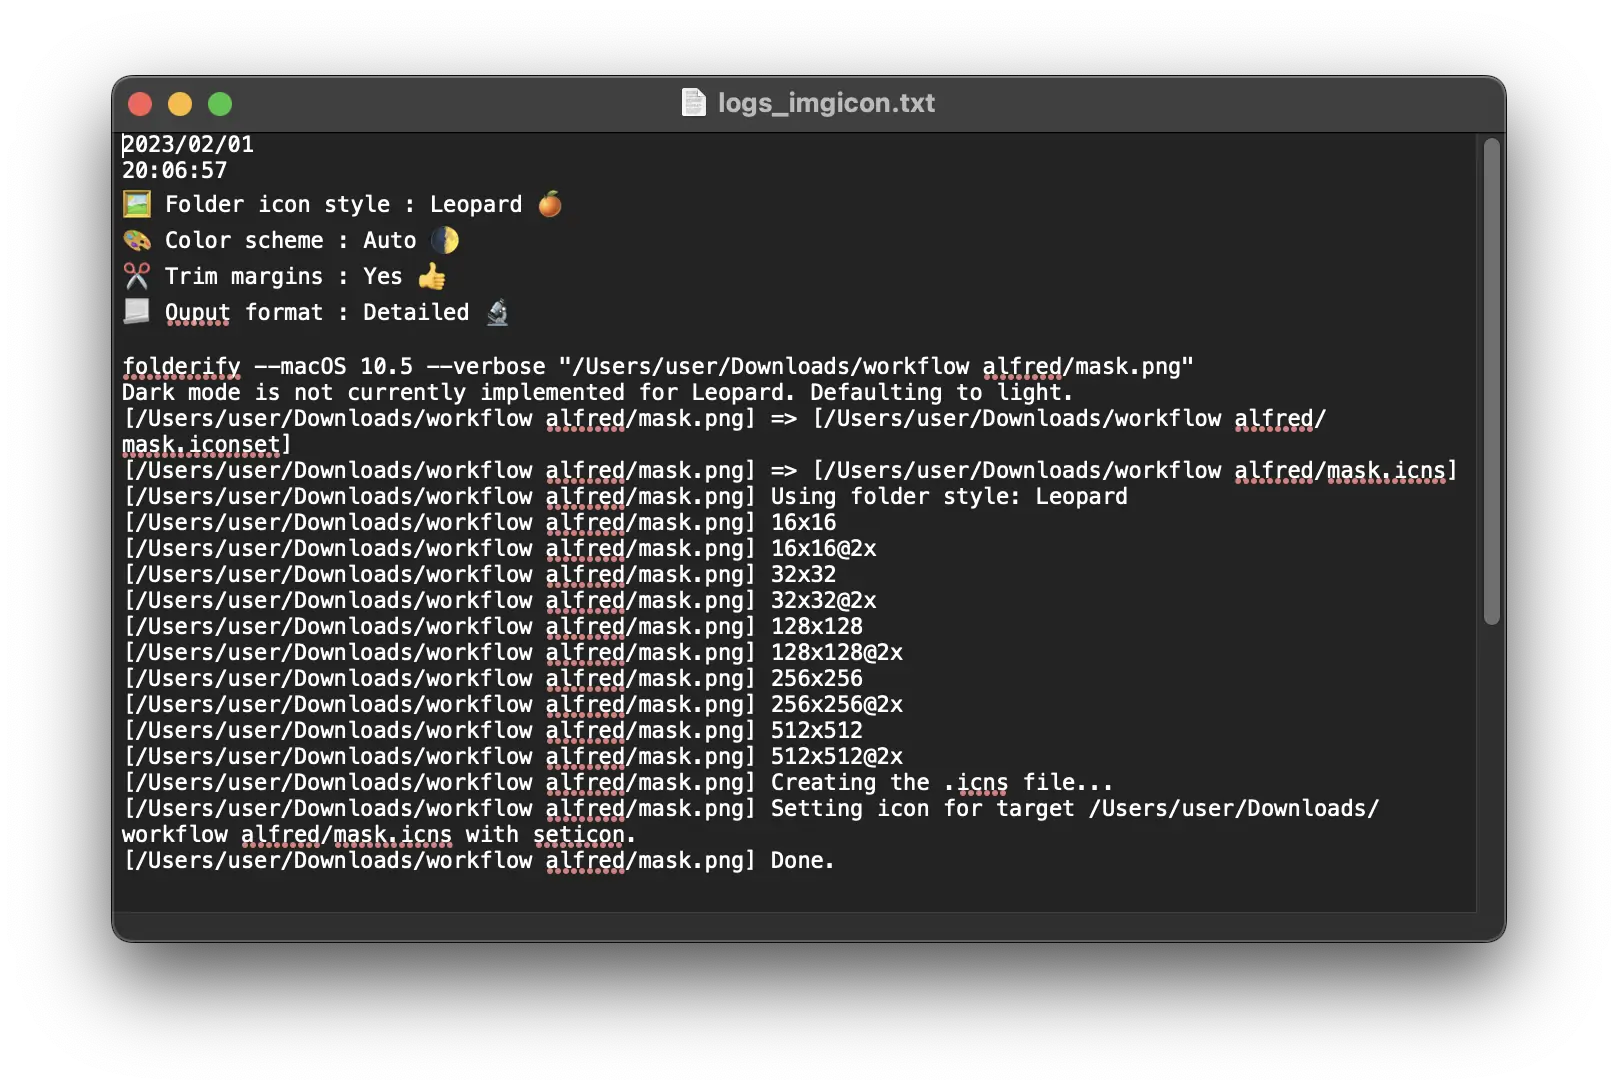
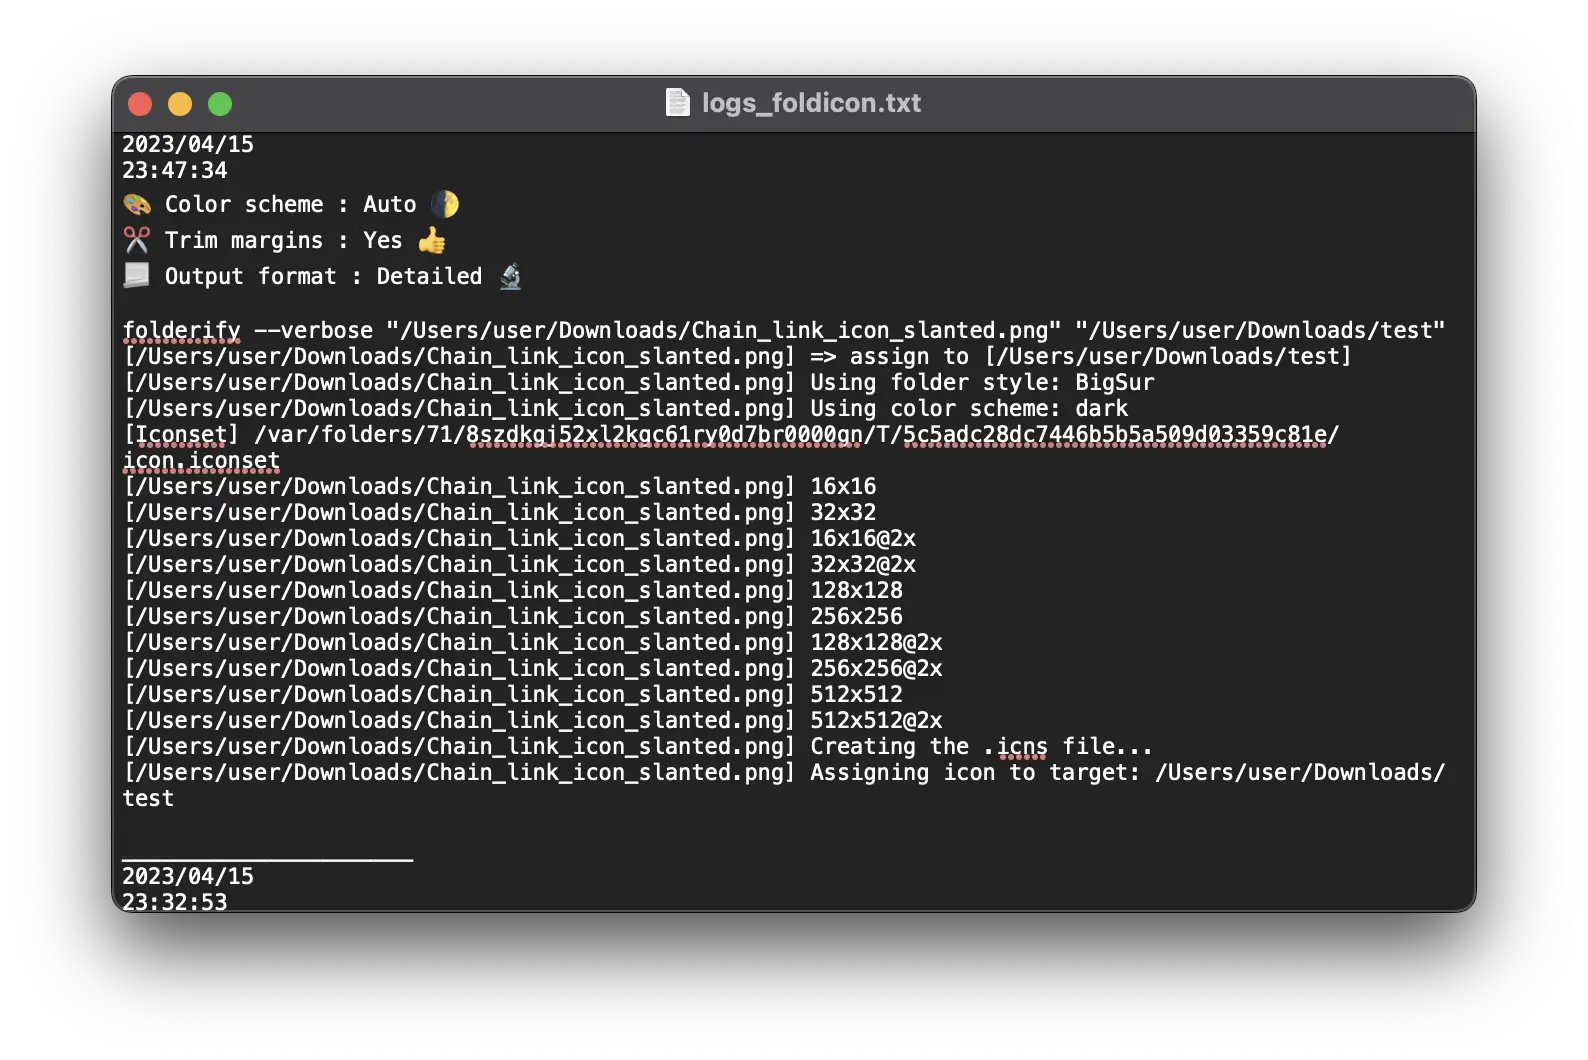
release: v1.4.0
- remove folder style icon option as it is now downgrade in folderify v3
- fix typo

Changed region(s): [[0.0617, 0.0623, 0.9565, 0.8717]]

diff --git a/README.md b/README.md
@@ -51,23 +51,7 @@ You can edit these triggers (flagged with a `🕹` symbol) in the user config
 
 > Note that if you change the `Data folder` location after generating logs, you should probably move the file created along in the new folder.
 
-2. `🖼 Folder icon style` corresponds to the `--macOS VERSION` folderify argument and allows you to change the style of the icon folder. Here are the current available styles from all macOS versions :
-
-`Auto 🍏` : will detect your system version and apply the correct settings.
-
-`Big Sur 🍌` : --macOS 11.0 and above.
-
-![big_sur_light](public/big_sur_light.webp)
-
-`Yosemite 🍒` : --macOS ["10.10", "10.11", "10.12", "10.13", "10.14", "10.15"].
-
-![yosemite](public/yosemite.webp)
-
-`Leopard 🍊` : --macOS ["10.5", "10.6", "10.7", "10.8", "10.9"].
-
-![leopard](public/leopard.webp)
-
-3. `🎨 Color scheme` corresponds to the `--color-scheme COLOR_SCHEME` folderify argument and allows you to change the color of the icon folder (slight difference). 
+2. `🎨 Color scheme` corresponds to the `--color-scheme COLOR_SCHEME` folderify argument and allows you to change the color of the icon folder (slight difference). 
 
 `🌓 Auto` : will match current system settings.
 
@@ -81,7 +65,7 @@ You can edit these triggers (flagged with a `🕹` symbol) in the user config
 
 > Note that the --color-scheme argument is only available for `Big Sur 🍌` (--macOS 11.0) and above.
 
-4. `✂ Trim margins` corresponds to the `--no-trim` folderify argument.
+3. `✂ Trim margins` corresponds to the `--no-trim` folderify argument.
 
 `Yes 👍` : transparent margins are trimmed from all 4 sides.
 
@@ -95,7 +79,7 @@ Here is a small schema to explain the principle :
 
 ![schema_trim](public/schema_trim.webp)
 
-5. `📃 Output format` : corresponds to the `--verbose` folderify argument. 
+4. `📃 Output format` : corresponds to the `--verbose` folderify argument. 
 
 `Simple 🔭` : simple output.
 
@@ -105,9 +89,11 @@ Here is a small schema to explain the principle :
 
 ![log_detailed](public/log_detailed.webp)
 
-6. `🔫 Workflow action`. Open/Reveal in finder the log file, display a post notification or do nothing.
+5. `🔫 Workflow action`. Open/Reveal in finder the log file, display a post notification or do nothing.
 
-7. `🎷 Notification sound`. Set notification sound for this workflow.
+6. `🎷 Notification sound`. Set notification sound for this workflow.
+
+> As of version 1.4.0, this is no longer possible to generate old folder style (leopard / yosemite). You can still download v2 of folderify [here](https://pypi.org/project/folderify/).
 
 ### Modify icons folders
 
